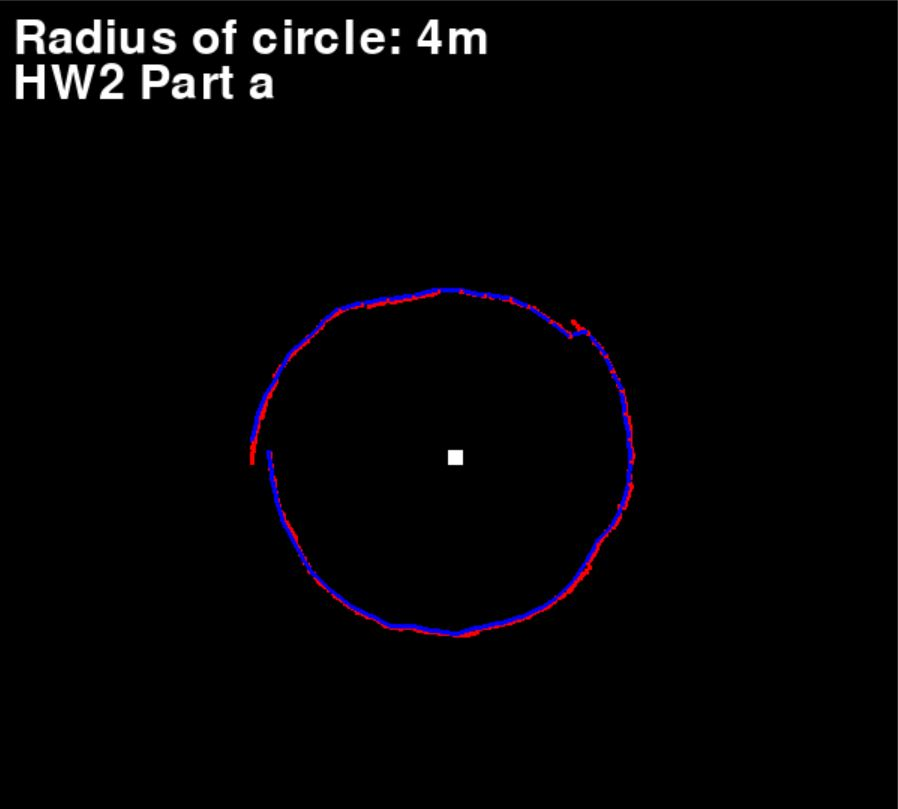
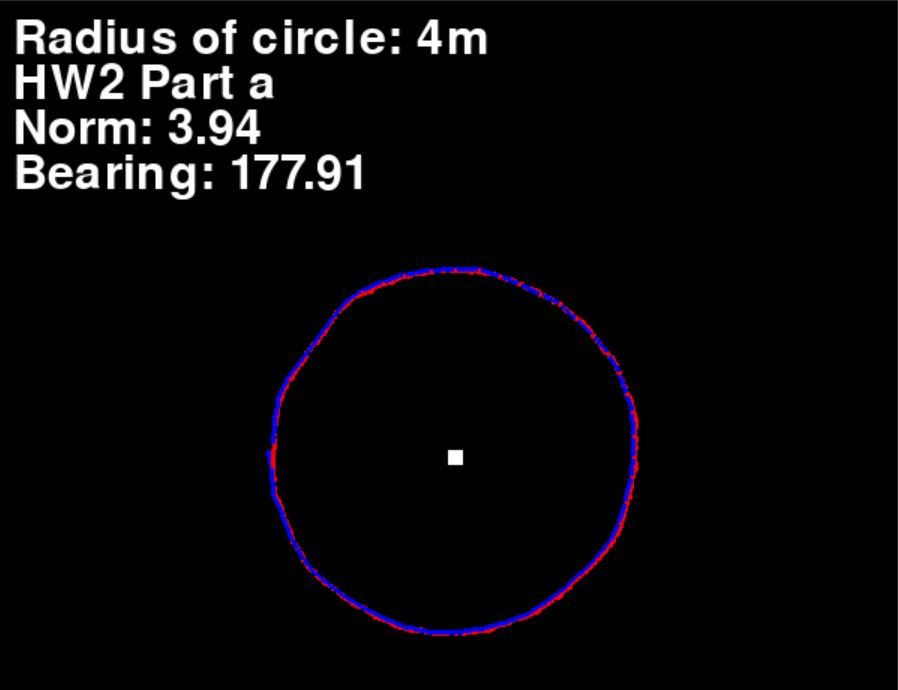
Updated covariance matrices for linear and nonlinear models

diff --git a/HW2/EKF.py b/HW2/EKF.py
@@ -1,13 +1,14 @@
 import pygame
 import random, math
-from numpy import dot, sum, tile, linalg, array, random, eye, zeros, diag, transpose
+from numpy import dot, sum, tile, linalg, array, random, eye, zeros, diag, transpose, mean, var, cov
 from numpy.linalg import inv, norm
 import matplotlib.pyplot as plt
 
-#Noise control:
+#Basic Options
 Noise = True
 Linear = False
 Ellipse = False
+Fill = True
 
 #Initialize the pygame
 pygame.init()
@@ -16,12 +17,12 @@ pygame.init()
 scale = 600
 screen = pygame.display.set_mode((scale, scale))
 sc_f = int(scale/20)
-cov_size = 500
+cov_size = 20000
 cov_scale = cov_size/sc_f
 
 #Title, icon, text
 pygame.display.set_caption("Kalman Filter")
-font = pygame.font.Font('freesansbold.ttf', 32)
+font = pygame.font.Font('freesansbold.ttf', 20)# 32)
 X_text = font.render("X:", True, (255, 255, 255))
 Y_text = font.render("Y:", True, (255, 255, 255))
 if Linear == True:
@@ -44,15 +45,10 @@ L = array([[10, 10]]).T
 image = pygame.Surface([scale,scale], pygame.SRCALPHA, 32)
 image = image.convert_alpha()
 
-X_p = []
-Y_p = []
-X_gt = []
-Y_gt = []
-
 #Initial Conditions
 x0 = 6.0
 y0 = 10.0
-theta = math.pi/2.0 
+theta = math.pi/2.0
 thetaprev = 0
 X = array([[x0, y0]]).T
 P = zeros(2)
@@ -70,24 +66,22 @@ u_w = (ur+ul)/2.0
 u_phi = (ur-ul)*(r/rL)
 U = array([[r*u_w*math.cos(theta),r*u_w*math.sin(theta)]]).T
 
-#Noise
+#Process Noise
 ww = 0.1
 wphi = 0.01
 Q = diag([ww+wphi, ww+wphi])
 delf_delw = ww* array([T, T])
-delf_delphi = (T**2)*wphi* array([-r*u_w*math.sin(theta), r*u_w*math.cos(theta)])
-Q_p = transpose(array([delf_delw, delf_delphi]))
-
+delf_delphi = (T**2)*wphi*r*u_w* array([-math.sin(theta), math.cos(theta)])
+w_kp = transpose(array([delf_delw, delf_delphi]))
+Q_p = cov(w_kp, bias=True)
 
 #Measurement parameters
 C = diag([1, 2])
 rx, ry = 0.05, 0.075
-R = diag([rx, ry])
+rxy = rx*ry
+R = array([[rx, rxy], [rxy, ry]])
 phi = theta + math.pi/2.0
 dist_norm = 4.0
-delg_delw = ww* array([math.cos(phi), math.sin(phi)])
-delg_delphi = dist_norm* array([-math.sin(phi), math.cos(phi)])
-R_p = transpose(array([delg_delw, delg_delphi]))
 
 #True line
 true_line = [(x0*sc_f, y0*sc_f), (x0, y0)]
@@ -119,7 +113,6 @@ def kf_correct_bm(X, P, Y, G, R_p, IM):
     IS = R_p + dot(G, dot(P, G.T))
     det = IS[0,0]*IS[1,1] - IS[0,1]*IS[1,0]
     #try to clip outliers
-    #print('%2.4f' %(det))
     inverse = inv(IS)
     if abs(det) < 0.1:
         inverse = (abs(det)/2)*inv(IS)
@@ -147,15 +140,14 @@ screen.fill((0, 0, 0))
 screen.blit(Landmark, (int(scale/2), int(scale/2)))
 R_text = font.render("Radius of circle: 4m", True, (255, 255, 255))
 Q_text = font.render("HW2 Part " + str(part), True, (255, 255, 255))
-C_text = font.render("Covariance Ellipse Scale: " + str(cov_scale), True, (255, 255, 255))
+C_text = font.render("Covariance Ellipse Scale: " + '{:01.2f}'.format(cov_scale), True, (255, 255, 255))
+B_text = font.render("Bearing: 90", True, (255, 255, 255))
 screen.blit(R_text, (textX, textY))
-screen.blit(Q_text, (textX, textY+30))
-if Ellipse == True:
-    screen.blit(C_text, (textX, textY+60))
+screen.blit(Q_text, (textX, textY+20))
+screen.blit(B_text, (textX, textY+60))
 
 while running:
-    i += 1     
-    #screen.fill((0, 0, 0))
+    i += 1 
     for event in pygame.event.get():
         if event.type == pygame.QUIT:
             running = False
@@ -169,7 +161,8 @@ while running:
     U = array([[r*u_w*math.cos(theta),r*u_w*math.sin(theta)]]).T
 
     delf_delphi = (T**2)*wphi* array([-r*u_w*math.sin(theta_no_noise), r*u_w*math.cos(theta_no_noise)])
-    Q_p = transpose(array([delf_delw, delf_delphi]))
+    w_kp = transpose(array([delf_delw, delf_delphi]))
+    Q_p = cov(w_kp, bias=True)
 
     X, P = kf_predict(X, P, F, Q_p, U)
 
@@ -195,16 +188,17 @@ while running:
             #print('Before %2.2f %2.2f %2.2f \n' %(X[0, 0], X[1, 0], dist_norm))
 
             #Update covariance matrix R
-            delg_delw = ww* array([math.cos(phi), math.sin(phi)])
-            delg_delphi = dist_norm* array([-math.sin(phi), math.cos(phi)])
-            R_p = transpose(array([delg_delw, delg_delphi]))
+            delg_delw = n_w* array([math.cos(phi), math.sin(phi)])
+            delg_delphi = dist_norm*n_phi* array([-math.sin(phi), math.cos(phi)])
+            n_kp = transpose(array([delg_delw, delg_delphi]))
+            R_p = cov(n_kp, bias=True)
 
             Z = range_bearing(dist_norm_n, phi_n)
             IM = range_bearing(dist_norm, phi)
             G1 = array([(X[0, 0] - 10.0)*math.cos(phi), (X[1,0] - 10.0)*math.cos(phi)])
             G2 = array([(X[0, 0] - 10.0)*math.sin(phi), (X[1,0] - 10.0)*math.sin(phi)])
             G = (1.0/dist_norm)*array([G1, G2])
-            G = G.reshape(2, 2)
+            #G = G.reshape(2, 2)
             X, P, K, IM, IS = kf_correct_bm(X, P, Z, G, R_p, IM)
             true_line[1] = (int(X[0, 0]*sc_f), int(X[1, 0]*sc_f))
             pygame.draw.lines(screen, (0, 0, 255), False, true_line, 3)
@@ -220,18 +214,34 @@ while running:
     dist = dist[:,0]
     dist_norm = norm(dist, ord = 2)
 
-    print('Angle %2.2f Norm: %2.2f X: %2.2f Y: %2.2f' %(theta*180.0/math.pi, dist_norm, X[0][0], X[1][0]))
+    #print('Angle %2.2f Norm: %2.2f X: %2.2f Y: %2.2f' %(theta*180.0/math.pi, dist_norm, X[0][0], X[1][0]))
     
     if theta < - 0:
         theta = math.pi*2.0
 
     screen.blit(robot, (int(Xx), int(Xy)))
+
     if Ellipse == True:
         try:
-            pygame.draw.ellipse(screen, (0, 255, 0), (int(Xx-(Px*30)), int(Xy-(Py*30)), int(Px*cov_size), int(Py*cov_size)), 1)
+            pygame.draw.ellipse(screen, (0, 255, 0), (int(Xx-(Px*cov_size/2)), int(Xy-(Py*cov_size/2)), int(Px*cov_size), int(Py*cov_size)), 1)
             # ellipse_r = pygame.transform.rotate(image, 45)
             # screen.blit(ellipse_r, (int(rx), int(ry)))
         except:
             print('CovX %2.4f CovY %2.4f' %(Px, Py))
+
+    n_phi = random.normal(0, wphi)
+    Bearing = (theta + math.pi/2.0 + n_phi)*180.0/math.pi
+    if (theta*180.0/math.pi) > 270:
+        Bearing = Bearing - 360
+    Bearing_print = '{:03.2f}'.format(Bearing)
+    N_print = '{:01.2f}'.format(dist_norm)
+    N_text = font.render("Norm: " + N_print, True, (255, 255, 255))
+    B_text = font.render("Bearing: " + Bearing_print, True, (255, 255, 255))
+    screen.fill((0, 0, 0), (0, scale//12, scale, scale//6))
+    screen.blit(Landmark, (int(scale/2), int(scale/2)))
+    screen.blit(N_text, (textX, textY+40))
+    screen.blit(B_text, (textX, textY+60))
+    if Ellipse is True:
+        screen.blit(C_text, (textX, textY+80))
 
     pygame.display.update()
